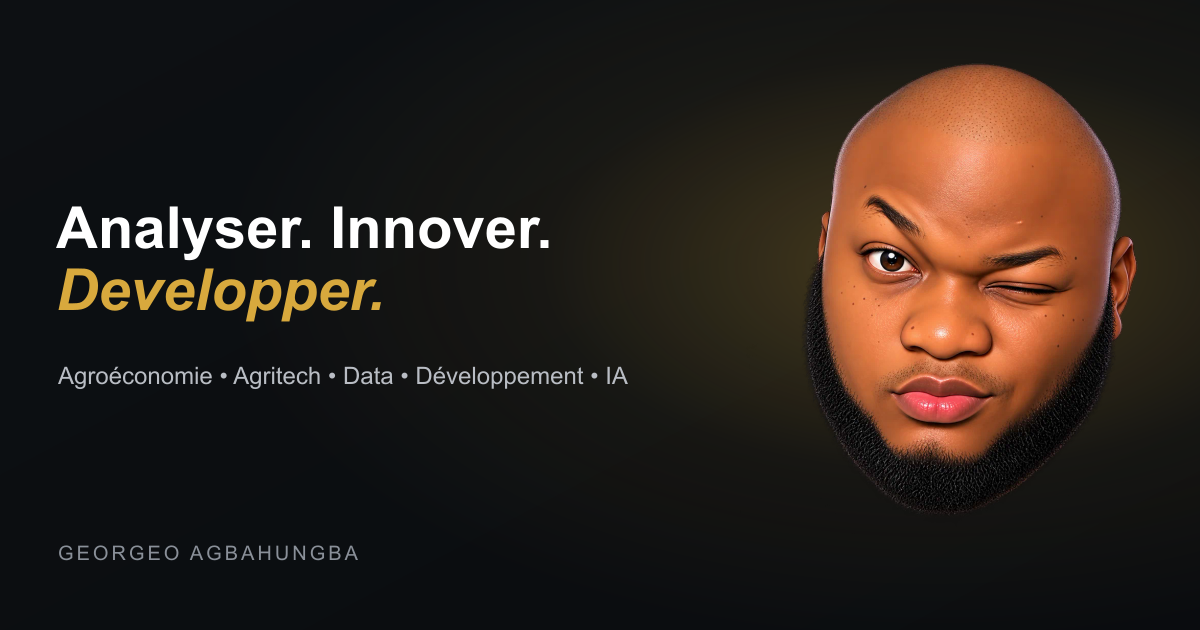
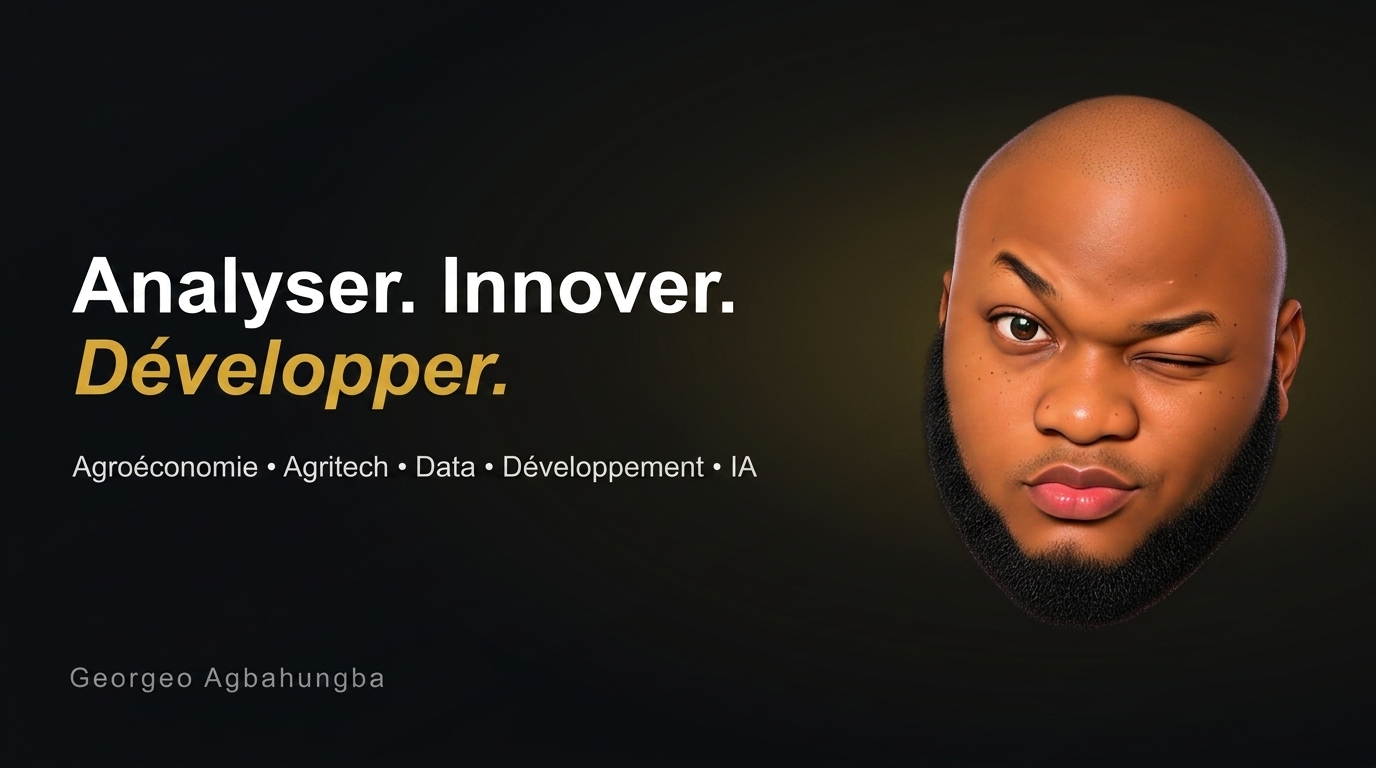
chore: mise a jour des metadonnees Open Graph, de l'image de partage et ajout de nouvelles competences (Flutter, Python, SQL, Cloud)

diff --git a/app/api/chat/route.js b/app/api/chat/route.js
@@ -5,7 +5,7 @@ const fallbackAnswers = [
   { match: ["cv", "curriculum", "télécharger", "telecharger"], answer: "La section CV propose trois versions : Agroéconomiste, Développeur et Profil complet, chacune en français et en anglais — à télécharger sur la page /cv." },
   { match: ["agri", "agro", "terrain", "kobo", "anacarde", "soja"], answer: "Georgeo développe notamment des solutions de collecte agricole offline, de visualisation KoboCollect, d’aide à la décision et des plateformes pour les filières agricoles (soja, anacarde)." },
   { match: ["projet", "réalisation", "realisation", "musimaps", "takacode"], answer: "Parmi ses projets : TakaCode, Musimaps, ANOPER Cartes membres, Ire Ayodé, la plateforme filière soja, Content Factory, Lottery dApp et 3D AI Customizer. La page /projets présente la liste complète." },
-  { match: ["compétence", "competence", "technologie", "stack", "react", "next"], answer: "Ses compétences couvrent React, Next.js, Node.js, PHP/Laravel, bases de données, mobile, IA, automatisation, collecte terrain et analyse de données." },
+  { match: ["compétence", "competence", "technologie", "stack", "react", "next", "flutter", "python", "sql", "aws", "google cloud"], answer: "Ses compétences couvrent React, Next.js, Node.js, PHP/Laravel, Flutter, React Native, Python, SQL, Cloud (Google Cloud, AWS), les bases de données, le mobile, l'IA, l'automatisation, la collecte terrain et l'analyse de données." },
 ];
 
 function fallback(message) {

diff --git a/data/portfolio.js b/data/portfolio.js
@@ -47,8 +47,8 @@ export const journey = [
 ];
 
 export const skills = {
-  dev: ["JavaScript", "TypeScript", "React", "Next.js", "Node.js", "PHP", "Laravel", "React Native", "Expo", "WordPress", "SQL", "Supabase", "Git", "GitHub", "Docker", "APIs", "IA générative"],
-  agro: ["R", "Stata", "SPSS", "Excel", "KoboToolbox", "ODK", "Power BI", "QGIS", "Économétrie", "Statistiques", "Analyse de données", "Suivi-évaluation", "Évaluation d'impact"],
+  dev: ["JavaScript", "TypeScript", "React", "Next.js", "Node.js", "PHP", "Laravel", "Flutter", "React Native", "Expo", "WordPress", "SQL", "Supabase", "Google Cloud", "AWS Cloud", "Git", "GitHub", "Docker", "APIs", "IA générative"],
+  agro: ["Python", "SQL", "R", "Stata", "SPSS", "Excel", "KoboToolbox", "ODK", "Power BI", "QGIS", "Économétrie", "Statistiques", "Analyse de données", "Suivi-évaluation", "Évaluation d'impact"],
 };
 
 export const assistantKnowledge = `

diff --git a/components/SkillsSection.jsx b/components/SkillsSection.jsx
@@ -7,8 +7,8 @@ const groups = [
     title: "Développement & Technologie",
     skills: [
       "JavaScript", "TypeScript", "React", "Next.js", "Node.js", "PHP", "Laravel",
-      "React Native", "Expo", "WordPress", "SQL", "Supabase", "Git", "GitHub",
-      "Docker", "APIs", "IA générative",
+      "Flutter", "React Native", "Expo", "WordPress", "SQL", "Supabase",
+      "Google Cloud", "AWS Cloud", "Git", "GitHub", "Docker", "APIs", "IA générative",
     ],
   },
   {
@@ -16,7 +16,7 @@ const groups = [
     icon: DatabaseZap,
     title: "Agroéconomie & Data",
     skills: [
-      "R", "Stata", "SPSS", "Excel", "KoboToolbox", "ODK", "Power BI", "QGIS",
+      "Python", "SQL", "R", "Stata", "SPSS", "Excel", "KoboToolbox", "ODK", "Power BI", "QGIS",
       "Économétrie", "Statistiques", "Analyse de données", "Suivi-évaluation",
       "Évaluation d'impact",
     ],

diff --git a/app/layout.jsx b/app/layout.jsx
@@ -54,7 +54,7 @@ export const metadata = {
     creator: "@r_agbahungba",
     title: "Georgeo Agbahungba — Agroéconomie, Agritech & Développement",
     description:
-      "Agroéconomiste et développeur Full Stack : data, technologie et expertise métier pour des solutions digitales, Agritech et IA concrètes.",
+      "Agroéconomiste et développeur Full Stack, je combine data, technologie et expertise métier pour concevoir des solutions digitales, Agritech et IA utiles et concrètes.",
     images: ["/og-image.png"],
   },
   robots: {
